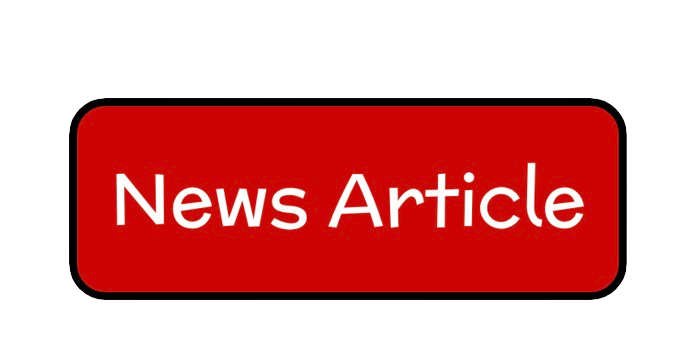
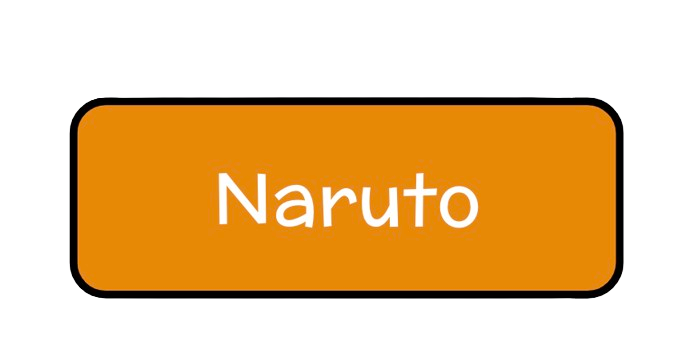
finished LOTF

diff --git a/naruto.html b/naruto.html
@@ -3,12 +3,35 @@
 <head>
     <meta charset = "UTF-8">
     <meta name = "viewport" content = "width=device-width, initial-scale=1.0">
-    <title> Naruto:  </title>
+    <title> Naruto</title>
     <link rel = "stylesheet" type = "text/css" href = "style.css">
 </head>
 <body>
-    <a href = "./nav.html" target = "_blank">
-        <img src = "./images/Butt1.png" class = "butt1"/>
-    </a>
+    <h1> Naruto: Momentary Freeze</h1>
+    <h5> 
+        In episode eight of Naruto, titled "The Oath of Pain," Naruto's fear 
+        prompts personal growth by urging him to overcome his struggles. Naruto 
+        and his friends are ninjas on a mission to escort a bridge builder. Suddenly, 
+        bandits attacked them, faced with their menacing weapons – spinning saw blades 
+        on their arms and intimidating muzzles covering their faces – Naruto froze, 
+        endangering his comrades. However, this moment of vulnerability makes him 
+        realize the gravity of his hesitation and the potential consequences of his fear. 
+        This results in him taking an oath of pain, stabbing his hand, and vowing never to 
+        allow his fear to jeopardize the safety of his friends again. The oath suggests that 
+        Naruto acknowledges his shortcomings and has the resolve to overcome them. It also 
+        demonstrates his open-mindedness and willingness to grow, underscoring just how 
+        regretful he is that he let his fear dictate his actions. Later, when Naruto faces 
+        the same bandits again, the recollection of his oath of pain encourages him to take 
+        action. Drawing strength from his vow, Naruto bravely confronts the bandits, freeing 
+        his mentor and saving his friends. It is his fear of endangering his friends that 
+        prompted him to rise above his limitations. This demonstrates how Naruto's fear, while 
+        initially hindering him, ultimately leads to his personal growth and makes him stronger and more resilient. 
+    </h5>
+    <img id = "butt6" src = "./images/Butt1.png" class = "butt1"/>
+    <script>
+        document.getElementById('butt6').addEventListener('click', function (){
+            window.location.href = "./nav.html"
+        });
+    </script>
 </body>
 </html>

diff --git a/LOTF.html b/LOTF.html
@@ -5,6 +5,18 @@
     <meta name = "viewport" content = "width=device-width, initial-scale=1.0">
     <title> Lord of the Flies </title>
     <link rel = "stylesheet" type = "text/css" href = "style.css">
+    <style>
+        .loft-img1{
+            width: 250px;
+            height: 380px;
+            padding-left: 250px;
+        }
+        .loft-img{
+            width: 250px;
+            height: 380px;
+            padding-left: 80px;
+        }
+    </style>
 </head>
 <body>
     <h1> Lord of the Flies: Simon's Murder</h1>
@@ -21,7 +33,12 @@
         captures the intensity of their fear-induced violence, highly contrasting with their 
         supposed civilized upbringing. This stark juxtaposition underscores the transformative 
         power of fear, revealing how much of an influence it can have on human behavior. </h5>
-    <img id = "butt4" src = "./images/Butt1.png" class = "butt1"/>
+    <div>
+        <img src = "./images/pigStick.png" class = "loft-img1">
+        <img src = "./images/loftAltCov.png" class = "loft-img">
+        <img src = "./images/loneHunter.png" class = "loft-img">
+        <img id = "butt4" src = "./images/Butt1.png" class = "butt1"/>
+    </div>
     <script>
         document.getElementById('butt4').addEventListener('click', function (){
             window.location.href = "./nav.html"

diff --git a/nav.html b/nav.html
@@ -37,7 +37,7 @@
             top: -520px;
             right: -418px;
         }
-        #LS {
+        #NA {
             cursor: pointer;
             border: none;
             background: none;
@@ -87,7 +87,7 @@
         <img id = "LOFT" src="./images/LOTFButt.png" alt="LOFT Button">
         <img id = "EG" src="./images/EGButt.png" alt="EG Button">
         <img id = "WT" src="./images/WTButt.png" alt="WT Button">
-        <img id = "LS" src="./images/NAButt.png" alt="LS Button">
+        <img id = "NA" src="./images/naButt.png" alt="NA Button">
         <img id = "IntroButt" src="./images/IntroButt.png" alt="Intro Button">
         <img id = "S" src="./images/Synthesis.png" alt="Synthesis Button">
     </div>
@@ -231,7 +231,7 @@
         }
     });
 
-    document.getElementById('LS').addEventListener('click', function () {
+    document.getElementById('NA').addEventListener('click', function () {
         if (characterRect.right >= 170 && characterRect.left <= 265 &&
             characterRect.bottom >= 450 && characterRect.top <= 505)
         {

diff --git a/intro.html b/intro.html
@@ -39,7 +39,7 @@
     <img src = "./images/LOTFcover.png" class = "Lcov"/>
     <img src = "./images/EGCover.png" class = "cov"/>
     <img src = "./images/WitchTrial.png" class = "cov"/>
-    <img src = "./images/WitchTrial.png" class = "cov"/>
+    <img src = "./images/narutoCov.png" class = "cov"/>
     <img id = "butt2" src = "./images/Butt1.png" class = "butt1"/>
     <script>
         document.getElementById('butt2').addEventListener('click', function (){
